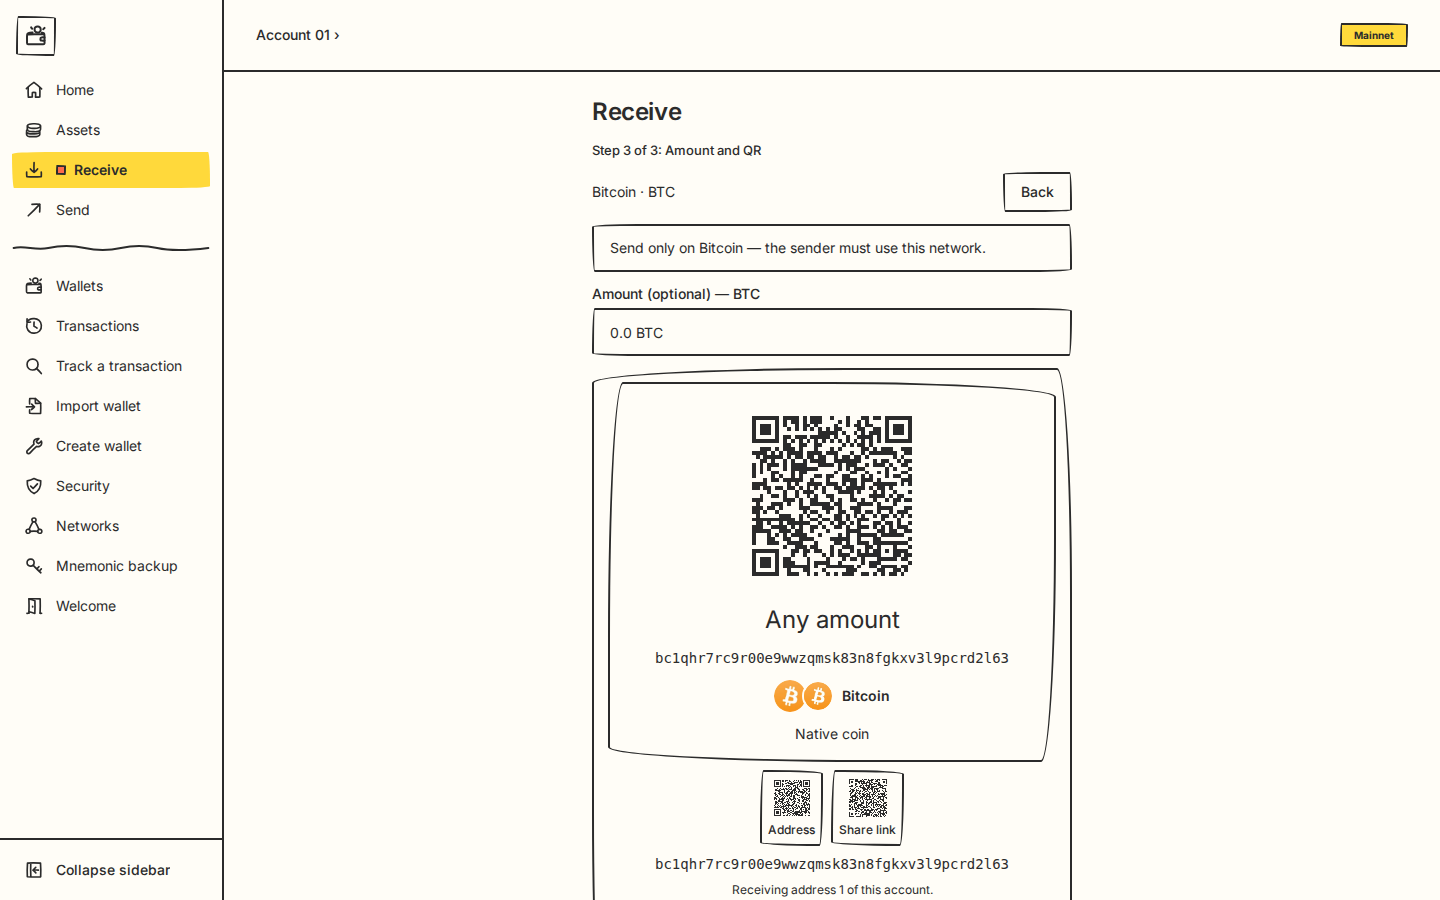
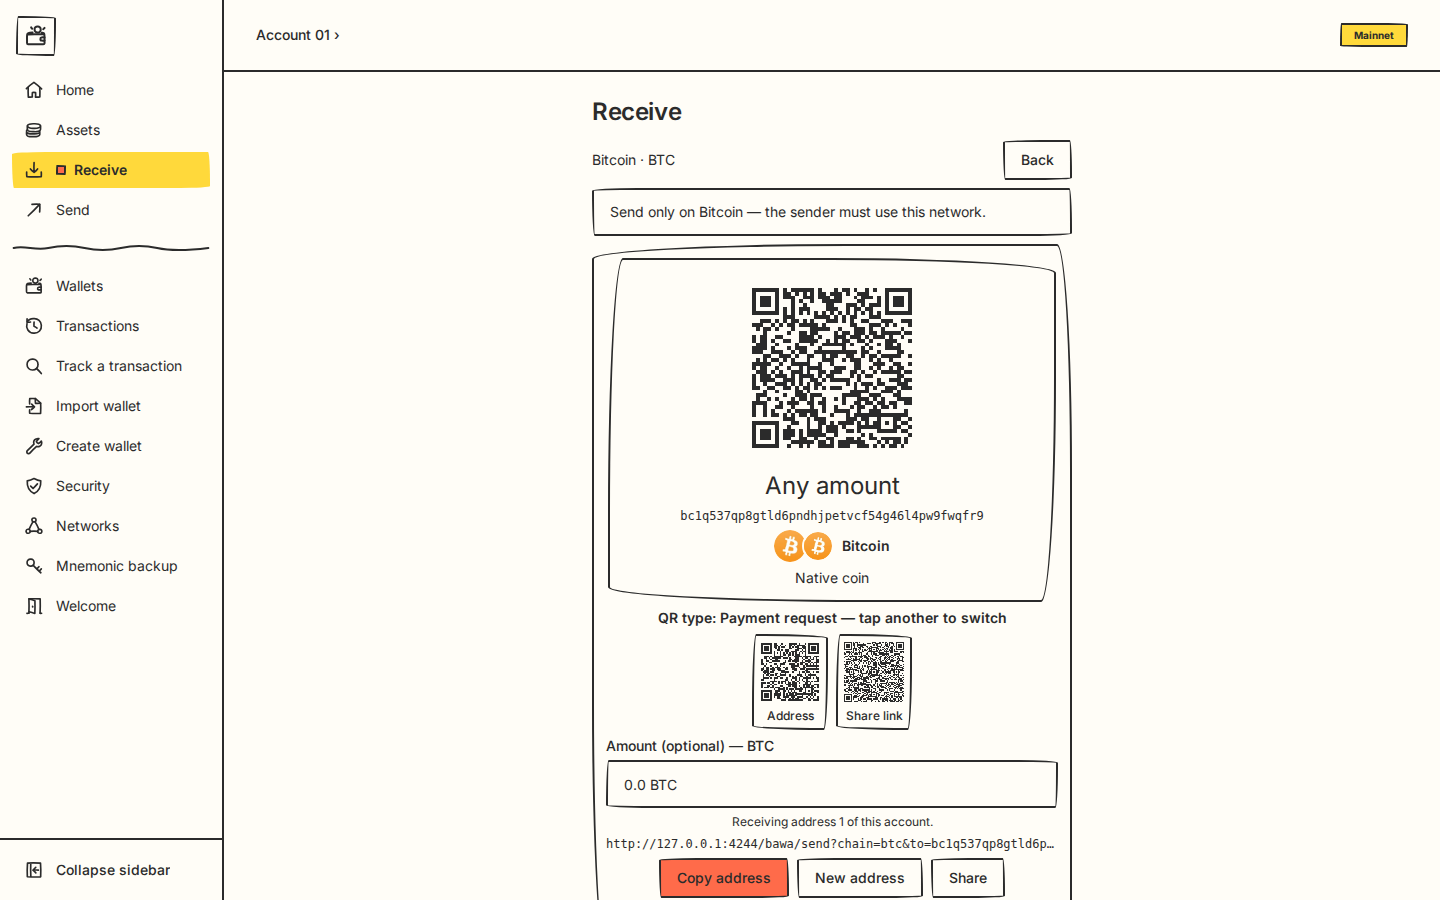
Lane 4 (marketing-fix): professional README rewrite + clean re-shot screenshots
Rewrite the root README to a professional standard mined from
MetaMask, Trust Wallet Core, BlueWallet, RainbowKit and shadcn-ui:
one-line promise, value proposition from verified facts only
(Lane 3 VALUE-PROPOSITION.md has not landed), screenshots first,
quickstart, example wallet, 22-chain support with the 168-chain
guide distinction, docs index, security and honest limits.
Keeps the example-wallet wording, the CREATE-EXAMPLE-WALLET.md
link, and a direct link to docs/HOW-IT-WORKS.md (Mermaid text,
no diagram images). Programme history condensed to pointers;
the M-16 passphrase-policy wording is kept verbatim so the
register-links gate still passes.

Re-shoot all four screenshots in headless Chromium from a fresh
hash-verified build (index-CoiBKoRm.js) with a fresh unfunded
test wallet: dashboard + Receive step 3 (QR card, three templates)
at 1440 and 390. All four viewed: clean $0.00 hero, no (Partial),
no Retry, no history unavailable in frame. Replaces the degraded
reverify shots (mobile (Partial), pre-Lane-7 Receive).

docs/index.md gains the missing HOW-IT-WORKS.md entry.

Gates: apps/web build exit 0; hdwallet-gen npm test exit 0
(217 ok, 28 PASS, 0 FAIL); all 20 README + 80 index relative
links resolve; chain list matches SUPPORTED_CHAINS.

Changed region(s): [[0.4062, 0.1556, 0.75, 1.0], [0.4062, 0.4667, 0.4375, 0.56]]

diff --git a/README.md b/README.md
@@ -3,25 +3,20 @@
 [![CI build status for panel-rebuild/token-gaps](https://github.com/Pr3eve6ti2o/bawa/actions/workflows/ci.yml/badge.svg?branch=panel-rebuild%2Ftoken-gaps)](https://github.com/Pr3eve6ti2o/bawa/actions/workflows/ci.yml?query=branch%3Apanel-rebuild%2Ftoken-gaps)
 [![MIT licence](https://img.shields.io/github/license/Pr3eve6ti2o/bawa)](LICENSE)
 
-Bawa is an open-source reference for HD-wallet workflows and an AI Wallet Builder. If you write wallet code or use an AI coding agent, give the agent one plain request; it uses this repo to produce a real, buildable project.
+**One plain request in, a real, buildable wallet project out.**
 
-The single entry point for Bawa documentation is [docs/index.md](docs/index.md).
+Bawa is an open-source reference for HD-wallet workflows and an AI Wallet Builder. Give it one plain request — "Create a Web wallet" — and it produces a real project from resources that actually exist: real derivation, real balances and prices from public endpoints, no invented figures, no fake money. The example wallet cannot send funds: broadcast stays disabled.
 
-## The example web wallet
+- **Self-custodial by construction.** Keys are generated and held locally in the browser; your recovery phrase never leaves your machine.
+- **Real data only.** Balances and prices come from public read-only endpoints. When a provider cannot be reached, a balance shows as unavailable — never as an invented figure.
+- **22 chains out of the box, 168 in the guide.** The example wallet ships with 22 chains enabled. The guide covers the full Trust Wallet Core registry of 168 chains.
+- **Open source, MIT.** The guide, the registries, the starters, and the example wallet.
 
-The web wallet in `apps/web` is a fully functional example wallet built using this guide. It runs entirely in the browser: create or import a wallet and see real balances. Broadcast stays disabled, so it cannot send funds.
+If you arrived looking for a wallet to hold funds, read [If you want a wallet to use](#if-you-want-a-wallet-to-use) first. Bawa is builder material, not a wallet product.
 
-It ships with 22 chains enabled by default: btc, eth, trx, ton, sol, bsc, matic, arb, op, base, avax, ltc, doge, gnosis, celo, linea, mantle, scroll, opbnb, metis, aurora, fantom. The list is `SUPPORTED_CHAINS` in `apps/web/src/wallet/chains.ts` and `chainSupport` in `registry/capabilities.json`.
-
-Do not confuse that number with the guide's number. The guide covers the full Trust Wallet Core registry of 168 chains. The example wallet enables 22 of them. Add Token adds more tokens by contract address and can enable any of the 22 chains; a chain outside the 22 cannot be added from the wallet, it needs a change to the registry first.
-
-To run the example wallet, follow [docs/CREATE-EXAMPLE-WALLET.md](docs/CREATE-EXAMPLE-WALLET.md).
-
-### Screenshots
+## Screenshots
 
 Real screenshots of the example web wallet running from this branch, taken with a fresh unfunded test wallet (zero balances, live prices). Desktop is 1440 px, mobile is 390 px.
-
-Two transient network states are visible and real, not defects in the shots: the mobile dashboard is marked "(Partial)" because some public balance and price feeds were rate-limited when it was captured, and the desktop recent-activity panel shows "Ethereum history unavailable" for the same reason.
 
 ![Dashboard of the Bawa web wallet on desktop](docs/images/web-wallet-dashboard-desktop.png)
 
@@ -33,7 +28,7 @@ Two transient network states are visible and real, not defects in the shots: the
 
 ![Receive screen of the Bawa web wallet on desktop](docs/images/web-wallet-receive-desktop.png)
 
-*Receive on desktop — Bitcoin QR card for a fresh test address.*
+*Receive on desktop — the QR card with its three templates: address, payment request and share link.*
 
 <img src="docs/images/web-wallet-receive-mobile.png" alt="Receive screen of the Bawa web wallet on mobile" width="390">
 
@@ -41,13 +36,26 @@ Two transient network states are visible and real, not defects in the shots: the
 
 ## Quickstart
 
-[Install the requirements and clone this branch](#installation), then start the one-prompt workflow from the repo root:
+Install Node **22** (`22.23.4` verified) and Python **3.12+**. For the Android starter, also install **JDK 17** and **Android SDK 35**.
+
+```sh
+git clone --branch panel-rebuild/token-gaps https://github.com/Pr3eve6ti2o/bawa.git
+cd bawa
+```
+
+Start the one-prompt workflow from the repo root:
 
 ```sh
 node scripts/build-wallet.mjs "Create a Web wallet"
 ```
 
-Replace the Web request with an Android or multi-chain request for those targets.
+Replace the Web request with an Android or multi-chain request for those targets. Or use the menu launcher:
+
+```sh
+python3 tools/bawa_cli.py
+```
+
+To run the example web wallet directly, follow [Create the example web wallet](docs/CREATE-EXAMPLE-WALLET.md): `cd apps/web && npm ci && npm run build && npm run preview`.
 
 Check the generator from the repo root:
 
@@ -61,139 +69,96 @@ cd tools/hdwallet-gen && npm ci && npm test
 All register-links checks passed
 ```
 
-## Installation
+## The example web wallet
 
-Install Node **22** (`22.23.4` verified) and Python **3.12+**. For the Android starter, also install **JDK 17** and **Android SDK 35**.
+The web wallet in `apps/web` is a fully functional example wallet built using this guide. It runs entirely in the browser: create or import a wallet, add a watch-only wallet, and see real balances. Broadcast stays disabled, so it cannot send funds.
 
-Clone this branch, install the generator dependencies, and return to the repo root:
+- Create, import (24/25 words) and watch-only wallets; multiple accounts from one phrase; bulk account creation.
+- 22 native assets plus 21 default tokens (43 rows), with live prices.
+- Receive with a QR card and three templates — address, payment request, share link — plus copy and share.
+- Add Token adds a token by contract address, and can enable any of the 22 chains.
+- Send walks through a stepped flow, but broadcast stays disabled, so nothing is ever sent.
 
-```sh
-git clone --branch panel-rebuild/token-gaps https://github.com/Pr3eve6ti2o/bawa.git
-cd bawa
-cd tools/hdwallet-gen && npm ci
-cd ../..
-```
+To run it, follow [docs/CREATE-EXAMPLE-WALLET.md](docs/CREATE-EXAMPLE-WALLET.md). To understand how it fits together, read [How Bawa works](docs/HOW-IT-WORKS.md) — two Mermaid diagrams (how it starts, what it can do), each box traced to a real file.
+
+## Chain support
+
+The example wallet enables **22 chains** by default: btc, eth, trx, ton, sol, bsc, matic, arb, op, base, avax, ltc, doge, gnosis, celo, linea, mantle, scroll, opbnb, metis, aurora, fantom. The list is `SUPPORTED_CHAINS` in `apps/web/src/wallet/chains.ts` and `chainSupport` in `registry/capabilities.json`.
+
+Do not confuse that number with the guide's number. The guide covers the full Trust Wallet Core registry of **168 chains**. The example wallet enables 22 of them. Add Token adds more tokens by contract address and can enable any of the 22 chains; a chain outside the 22 cannot be added from the wallet, it needs a change to the registry first.
+
+Network operations are verified for btc, eth, trx, ton only. The 18 additional chains are scoped to the multichain-extended-wallet profile. See the [docs index](docs/index.md) for the per-chain status.
+
+## How it works
+
+The guide (`docs/`, sixteen sections, plus the machine-readable `registry/`) tells a person — or an AI agent — how to build a complete wallet from resources that actually exist. The example web wallet (`apps/web/`) is the working proof of that guide. The builder (`scripts/build-wallet.mjs`, `tools/bawa_cli.py`) routes one plain request to the right starter and build steps.
+
+[How Bawa works](docs/HOW-IT-WORKS.md) explains it in plain terms, with two Mermaid diagrams kept as text in the Markdown file — not images — so they stay in step with the code. The full step-by-step version is [Create the example web wallet](docs/CREATE-EXAMPLE-WALLET.md).
+
+## Documentation
+
+The single entry point for Bawa documentation is [docs/index.md](docs/index.md).
+
+| You need | Read |
+| --- | --- |
+| Full manual | [docs/README-FULL.md](docs/README-FULL.md) — the previous 1,308-line README, preserved with only its link paths adjusted |
+| Guide map | [docs/README.md](docs/README.md) |
+| Docs index | [docs/index.md](docs/index.md) |
+| How it works | [docs/HOW-IT-WORKS.md](docs/HOW-IT-WORKS.md) |
+| Create the example wallet | [docs/CREATE-EXAMPLE-WALLET.md](docs/CREATE-EXAMPLE-WALLET.md) |
+| Builder routing | [WALLET_BUILDER.md](WALLET_BUILDER.md) |
+| Repository instructions | [AGENTS.md](AGENTS.md) |
+| Capability map | [docs/CAPABILITY-MAP.md](docs/CAPABILITY-MAP.md) |
+| Wallet lifecycle | [docs/wallet-lifecycle.md](docs/wallet-lifecycle.md) |
+| Security | [SECURITY.md](SECURITY.md) |
+| Changelog | [CHANGELOG.md](CHANGELOG.md) |
+| Licence | [LICENSE](LICENSE) |
 
 ## Configuration
 
-Choose your request text. Run the builder and launcher commands from the repo root.
-
 | Item | Value or command |
 | --- | --- |
-| Builder request | `"Create a Web wallet"`; use an Android or multi-chain request for those targets. |
+| Builder request | `"Create a Web wallet"`; use an Android or multi-chain request for those targets |
 | Menu launcher | `python3 tools/bawa_cli.py` |
 | Routed launcher | `python3 tools/bawa_cli.py --route "Create a Web wallet"` |
 | Wallet engine | `@trustwallet/wallet-core` `4.9.3` |
 | Web starter libraries | Dependencies: `@scure/bip39` `2.4.0`, `decimal.js` `10.6.0`, `dinero.js` `2.0.2`, `mnemonic-words` `2.0.0`; devDependency (test oracle): `bip39` `3.1.2` (bitcoinjs/bip39); Python requirement: `mnemonic==0.21` (trezor/python-mnemonic). See ADR-0005. |
-
-![Bawa Balanced UI direction for builder output](docs/ui-ux-assets/direction-04-bawa-balanced.png)
-
-*Bawa Balanced UI direction for builder output—not a screenshot of the running starter.*
-
-Read the [full manual](docs/README-FULL.md): the previous 1,308-line README, preserved with only its link paths adjusted for the move from the root.
-
-## Usage
-
-### 1. [Derive one watch-only Bitcoin address](docs/README-FULL.md)
-
-Run from `tools/hdwallet-gen`:
-
-```sh
[1 lines of base64/hex data omitted]
-```
-
-Output (exit status `0`):
-
-```text
-bc1qnjg0jd8228aq7egyzacy8cys3knf9xvrerkf9g
-```
-
-This is a public test vector. **Never fund it.**
-
-### 2. [Build a Web wallet](WALLET_BUILDER.md)
-
-Run from the repository root:
-
-```sh
-node scripts/build-wallet.mjs "Create a Web wallet"
-```
-
-Verified routing result: the launcher routes your request as an existing tool.
 
 Use the starters:
 
 - [Web starter](WALLET_BUILDER.md): `apps/web` — React 19 + Vite + Tailwind; MIT.
 - [Android starter](WALLET_BUILDER.md): `apps/android` — Kotlin + Compose + Material 3; Apache-2.0.
 
-### 3. [Route a request through the launcher](WALLET_BUILDER.md)
+![Bawa Balanced UI direction for builder output](docs/ui-ux-assets/direction-04-bawa-balanced.png)
 
-Run from the repository root:
+*Bawa Balanced UI direction for builder output — not a screenshot of the running starter.*
 
-```sh
-python3 tools/bawa_cli.py --route "build a web wallet"
-```
-
-Verified routing result: your request routes to the build command; exit status `0`.
-
-## Documentation
-
-| You need | Read |
-| --- | --- |
-| Full manual | [docs/README-FULL.md](docs/README-FULL.md) |
-| Guide map | [docs/README.md](docs/README.md) |
-| Docs index | [docs/index.md](docs/index.md) |
-| Builder routing | [WALLET_BUILDER.md](WALLET_BUILDER.md) |
-| Repository instructions | [AGENTS.md](AGENTS.md) |
-| Capability map | [docs/CAPABILITY-MAP.md](docs/CAPABILITY-MAP.md) |
-| Mainnet gap assessment | [docs/archive/mainnet-gap-assessment.md](docs/archive/mainnet-gap-assessment.md) |
-| Contributing | [CONTRIBUTING.md](CONTRIBUTING.md) |
-| Quality bar | [CONSTRAINTS.md](CONSTRAINTS.md) |
-| Wallet lifecycle | [docs/wallet-lifecycle.md](docs/wallet-lifecycle.md) |
-| Security | [SECURITY.md](SECURITY.md) |
-| Changelog | [CHANGELOG.md](CHANGELOG.md) |
-| Licence | [LICENSE](LICENSE) |
-
-## Why this exists — and when not to use it
+## Security and honest limits
 
 Use Bawa as a reference for [HD-wallet workflows](docs/README-FULL.md) and as a [builder](WALLET_BUILDER.md) that turns one plain request into a real, buildable project. It is **not** a hosted wallet, custody service, or exchange.
 
-Mainnet send/broadcast is not implemented; broadcast stays disabled. The repository is mainnet-first in direction but testnet-safe in behaviour; read the [mainnet gap assessment](docs/archive/mainnet-gap-assessment.md). If you want a ready-made wallet to hold funds, use a production wallet instead.
+- Mainnet send/broadcast is not implemented; broadcast stays disabled. The repository is mainnet-first in direction but testnet-safe in behaviour; read the [mainnet gap assessment](docs/archive/mainnet-gap-assessment.md).
+- The example wallet has never sent a transaction on any network, has no backup store for the vault, and recovery rehearsal has never been executed. If you want a ready-made wallet to hold funds, use a production wallet instead.
 
-## If you want a wallet to use (product-user route)
-
-Bawa is builder material: a reference and a starter kit, not a wallet
-product. If you arrived looking for a wallet to hold funds, the route
-is:
-
-1. **Do not use this repository as your wallet.** The web starter is a
-   reference implementation; it has never sent a transaction on any
-   network, has no backup store for the vault, and recovery rehearsal
-   has never been executed.
-2. **Use a production wallet** (for example Trust Wallet, whose engine
-   this repo's starter is built on) for real funds.
-3. **If you want to try the starter**, cold-test it with a disposable
-   wallet: create a fresh wallet in `apps/web`, write the phrase down
-   on paper, lock and unlock it, import it watch-only, and delete the
-   vault afterwards. Never fund it, and never import a phrase that
-   holds real funds. The lifecycle is documented in
-   [docs/wallet-lifecycle.md](docs/wallet-lifecycle.md).
-
-Builder material and the product route are different things, and this
-repository is the first one.
-
-## Passphrase policy
+### Passphrase policy
 
 Bawa uses BIP-39, 24 words, with an empty BIP-39 passphrase. Record the passphrase policy alongside the mnemonic: the same mnemonic with a different passphrase is a different wallet.
 
 If a restored wallet looks empty, re-derive your recorded first address with the recorded path and recorded BIP-39 passphrase policy. If it matches, the restore used the recorded inputs — that alone does not prove funds exist. If the recorded first address itself shows no funds on the recorded network, do not conclude the funds were never sent to that address: the address may have received and subsequently spent funds. Never re-fund a guess. See the [full manual](docs/README-FULL.md) for the troubleshooting table.
 
+Found a security issue? Report it through [GitHub Issues](https://github.com/Pr3eve6ti2o/bawa/issues), and never include a mnemonic, private key or other recovery material — in an issue, a screenshot, or a support message.
+
+## If you want a wallet to use
+
+Bawa is builder material: a reference and a starter kit, not a wallet product. If you arrived looking for a wallet to hold funds:
+
+1. **Do not use this repository as your wallet.** The web starter is a reference implementation.
+2. **Use a production wallet** (for example Trust Wallet, whose engine this repo's starter is built on) for real funds.
+3. **If you want to try the starter**, cold-test it with a disposable wallet: create a fresh wallet in `apps/web`, write the phrase down on paper, lock and unlock it, import it watch-only, and delete the vault afterwards. Never fund it, and never import a phrase that holds real funds. The lifecycle is documented in [docs/wallet-lifecycle.md](docs/wallet-lifecycle.md).
+
 ## Contributing
 
-Follow [CONTRIBUTING.md](CONTRIBUTING.md) when you contribute.
-
-## Help
-
-Report bugs through [GitHub Issues](https://github.com/Pr3eve6ti2o/bawa/issues). Use the bug report template there, and never include a mnemonic, private key or other recovery material.
+Follow [CONTRIBUTING.md](CONTRIBUTING.md) when you contribute. Report bugs through [GitHub Issues](https://github.com/Pr3eve6ti2o/bawa/issues) using the bug report template there.
 
 ## Licence
 
@@ -203,54 +168,13 @@ MIT — see [LICENSE](LICENSE).
 
 The repository owner, **Pr3eve6ti2o**, maintains Bawa.
 
-## UI/UX Fixes programme (2026-11-23)
+## Project history
 
-The 21-item UI/UX Fixes programme (sticky-scroll fixes, devnet toggle,
-mobile checks, QR image sharing, one-section 24/25-word import,
-same-phrase accounts, bulk account creation, multichain + HD, rebuilt
-Welcome, "SOON" cleanup, bug hunt, asset values, Add Token for every
-chain, 9 new chains, copy button, watch wallet for all chains,
-multi-account without deleting, HD primary tokens, RPC failover,
-stepped Send/Receive flow, and this documentation) is complete and
-merged into `panel-rebuild/token-gaps` (merge commit `4eb0242`).
-Full record, gates and branch state:
-[docs/UI-UX-FIXES-PROGRAMME.md](docs/UI-UX-FIXES-PROGRAMME.md).
+Recent programmes, each with its full record, gates and branch state in `docs/`:
 
-No code from the programme was merged into `adopt-proper` or `main`.
-The durable preview (GitHub Pages) still serves the saved
-adopt-proper-based build; to preview the programme, check out
-`panel-rebuild/token-gaps` and run the web starter locally.
+- **UI/UX Fixes programme (2026-11-23)** — 21 items, merged into `panel-rebuild/token-gaps` (merge commit `4eb0242`). Record: [docs/UI-UX-FIXES-PROGRAMME.md](docs/UI-UX-FIXES-PROGRAMME.md).
+- **UI/UX Round 2 programme (2026-11-23)** — 10 items, merged into `panel-rebuild/token-gaps` (merge commit `6147b74`). Record: [docs/UI-UX-ROUND2-PROGRAMME.md](docs/UI-UX-ROUND2-PROGRAMME.md).
+- **Reverify + Professional Polish programme (2026-11-23)** — five lanes, merged into `panel-rebuild/token-gaps` (fast-forward to `ccb8195`). Record: [docs/REVERIFY-PROGRAMME.md](docs/REVERIFY-PROGRAMME.md).
+- **Marketing Fix + Found-Bugs programme (2026-11-23)** — first-impression defects, found bugs, value proposition, README rewrite, architecture diagrams, branch cleanup, QR templates, browser-first re-verification; running on `panel-rebuild/token-gaps`.
 
-## UI/UX Round 2 programme (2026-11-23)
-
-The 10-item UI/UX Round 2 programme (QR card with auto-select,
-shared-link deep-link fix, watch-wallet search, Baloo 2 font,
-plain-English copy rewrite, devnet prices, mobile layout pass,
-no-scroll Send/Receive flow, scan icon, and this documentation) is
-complete and merged into `panel-rebuild/token-gaps` (merge commit
-`6147b74`). Full record, gates and branch state:
-[docs/UI-UX-ROUND2-PROGRAMME.md](docs/UI-UX-ROUND2-PROGRAMME.md).
-
-No code from the programme was merged into `adopt-proper` or `main`.
-The durable preview (GitHub Pages) still serves the saved
-adopt-proper-based build; to preview the programme, check out
-`panel-rebuild/token-gaps` and run the web starter locally.
-
-## Reverify + Professional Polish programme (2026-11-23)
-
-The five-lane Reverify + Professional Polish programme (reverify
-checklist of every owner order from 2026-11-22 through 2026-11-23,
-real wallet screenshots in the README, professional polish of the
-README and docs, architecture/duplicates/dead-code pass, skills gap)
-is complete and merged into `panel-rebuild/token-gaps` (fast-forward
-to `ccb8195`). It fixed
-three genuinely missed items in place: the 40 px Receive fix
-restored to the token-gaps tree, a "Continue to your send" button
-added to the import flow, and the item-14 chain list recorded. Full
-record, gates and branch state:
-[docs/REVERIFY-PROGRAMME.md](docs/REVERIFY-PROGRAMME.md).
-
-No code from the programme was merged into `adopt-proper` or `main`.
-The durable preview (GitHub Pages) still serves the saved
-adopt-proper-based build; to preview the programme, check out
-`panel-rebuild/token-gaps` and run the web starter locally.
+No code from these programmes was merged into `adopt-proper` or `main`. The durable preview (GitHub Pages) still serves the saved adopt-proper-based build; to preview this branch, check out `panel-rebuild/token-gaps` and run the web starter locally.

diff --git a/docs/index.md b/docs/index.md
@@ -59,6 +59,7 @@ Numbered labels (Doc 01, Doc 02, and so on) follow the guide sequence in docs/01
 - [Branch audit](archive/branch-audit.md) — `DOCUMENTED_NOT_TESTED`: what each of the five branches holds and where they differ.
 - [Architecture](../ARCHITECTURE.md) — `DOCUMENTED_NOT_TESTED`: code map, invariants, and boundaries.
 - [Architecture decisions](adr/README.md) — `DOCUMENTED_NOT_TESTED`: numbered decision records (ADRs).
+- [How Bawa works](HOW-IT-WORKS.md) — how the repository works, how it starts, and what it can do; two Mermaid diagrams with every box traced to a real file.
 - [Decisions](DECISIONS.md) — owner-delegated decisions register (ECDSA, confirmation policy, merges).
 - [UI/UX Fixes programme](UI-UX-FIXES-PROGRAMME.md) — programme record: 21 items, merged into `panel-rebuild/token-gaps` (merge commit `4eb0242`).
 - [UI/UX Round 2 programme](UI-UX-ROUND2-PROGRAMME.md) — programme record: 10 items, merged into `panel-rebuild/token-gaps` (merge commit `6147b74`).
